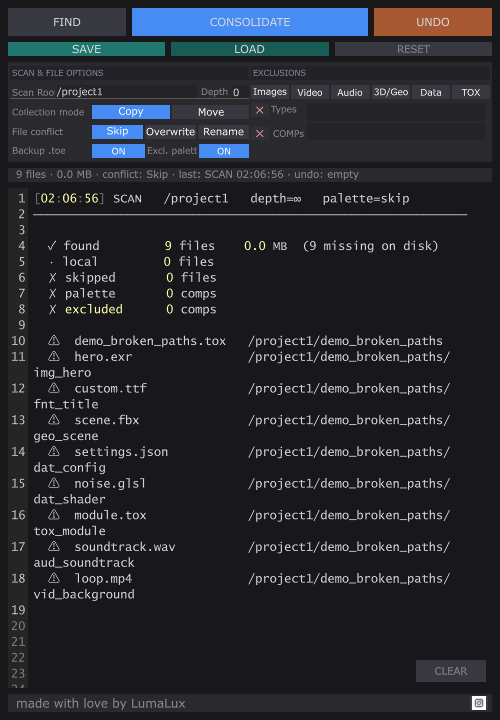
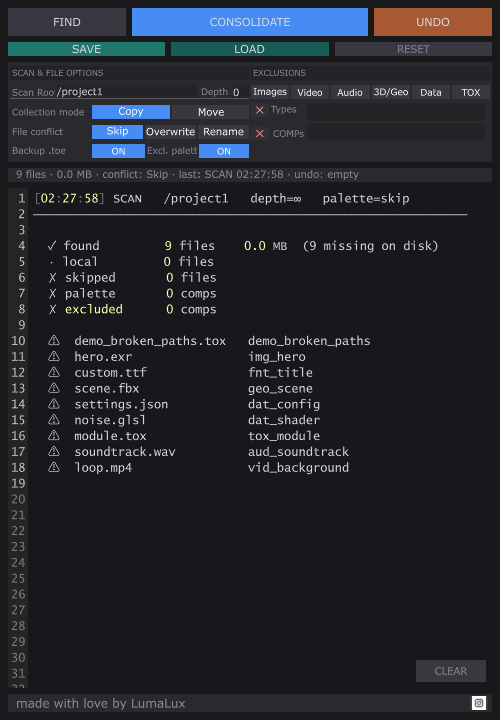
v0.3.0: log format fix, feature highlights, TD 2025+ req
- Fix scan log: show OP short name instead of full path, eliminating
  line-wrap artifacts in the log viewer
- README: rewrite features section with 7-item highlights + collapsed
  full list; replace verbose prose with scannable emoji bullets
- Version bump 1.3.0 -> 0.3.0 (semver pre-1.0 for beta)
- TD version requirement relaxed to 2025 (any build)
- Update panel screenshot with clean single-line log output

diff --git a/README.md b/README.md
@@ -1,8 +1,8 @@
 # CollectTDProject
 
-![Version](https://img.shields.io/badge/version-1.3.0-blue) ![Status](https://img.shields.io/badge/status-beta-yellow) ![TouchDesigner](https://img.shields.io/badge/TouchDesigner-2025.32460+-orange) ![License](https://img.shields.io/badge/license-GPL--3.0-green)
+![Version](https://img.shields.io/badge/version-0.3.0-blue) ![Status](https://img.shields.io/badge/status-beta-yellow) ![TouchDesigner](https://img.shields.io/badge/TouchDesigner-2025+-orange) ![License](https://img.shields.io/badge/license-GPL--3.0-green)
 
-> Last updated: 2026-05-05 · Released: v1.3.0 (broken-path detection, replayable relocation log, preset auto-increment + smart defaults, redesigned panel UI)
+> Last updated: 2026-05-07 · v0.3.0 (beta) — broken-path detection, replayable relocation log, preset save/load with auto-increment, redesigned panel UI
 
 A TouchDesigner utility component that scans your project for external file dependencies, copies or moves them into a local folder structure, and rewrites operator parameters to relative paths — making your project fully portable.
 
@@ -24,36 +24,37 @@ CollectTDProject automates the whole process.
 
 ## Features
 
-- Recursive scan of the entire project network, or a defined subtree
+- ⚠️ **Broken-path detection** — missing files flagged in the log, never silently dropped
+- 📦 **Copy or Move** with three conflict strategies: Skip, Overwrite, Auto-rename
+- ✏️ **Rewrites OP parameters** to relative paths after transfer
+- ↩️ **Undo + replayable relocation log** — reverse in-panel, or run the generated `.py` from any terminal to roll back after TD is closed
+- 🎛️ **Preset save/load** — per-project smart defaults, auto-increments on filename collision
+- 🛡️ **Safety .toe backup** — saves `<project>.original.toe` once before any change
+- 🧹 **Exclusion presets** — one-click toggles for Images, Video, Audio, 3D/Geo, Data, TOX
+
+<details>
+<summary>Full feature list</summary>
+
+- Recursive scan of the entire project network or a defined subtree
 - Detects file references across all operator types by evaluating string parameters
-- **Broken-path detection** — references that point to missing or unreachable files are reported (with a ⚠ marker) instead of silently dropped, so nothing slips through
-- Smart skip rule — already-local references (relative path resolving inside `project.folder` and the file actually exists) are filtered out automatically; everything else (absolute, external, broken) is recorded
+- Smart skip rule — already-local relative references that resolve inside `project.folder` are filtered out automatically; everything else (absolute, external, broken) is recorded
 - Organizes collected files into standard subfolders: `Image/`, `Movie/`, `Audio/`, `Geo/`, `Data/`, `Font/`, `Component/`
-- **Copy or Move** — non-destructive copy mode by default
-- **Conflict resolution** — Skip, Overwrite, or Auto-rename when a file already exists at the destination
-- **Rewrites OP parameters** to relative paths after transfer (optional, on by default)
-- **File size calculator** — shows total dependency size before you commit to anything
-- **Undo** — reverses the last consolidation, restoring original parameter values (and returning moved files in Move mode)
-- **Replayable relocation log** — every CONSOLIDATE writes a self-contained `<project>.relocation_<YYYYMMDD_HHMMSS>.py` next to the `.toe`. Run it with `python <file>.py` from anywhere to roll back the transfer (Move entries moved back, Copy/Rename entries deleted, Overwrite entries flagged unrecoverable). Survives TD restarts and works even if the project is deleted — useful when other projects or apps reference the same source files
-- **Exclusion presets** — one-click toggles for Images, Video, Audio, 3D/Geo, Data, and TOX file groups
-- **Palette/system exclusion** — skips components sourced from the TD palette and internal system paths
-- Custom **scan scope**: set a root COMP and max recursion depth
-- **Exclusion lists**: skip specific COMPs or file extensions
-- Live **status bar** showing current conflict mode, file count, and last action
-- **Hover tooltips** on every UI control — descriptions appear in the status bar when you hover over any button, toggle, segmented control, preset, or section header
-- **Reset buttons** — global `RESET` reverts all settings to defaults; per-field `×` icons next to *Types* and *COMPs* reset just that field
-- **Preset Save / Load** — write current settings to a JSON file, reload them on demand
-  - **Smart defaults** — when `Presetpath` is blank, falls back to `~/Documents/Derivative/CollectTDProject` (auto-created); when `Presetname` is blank, falls back to `preset_<project_stem>` so each project keeps its own preset by default
-  - **Auto-increment** — saving over an existing preset writes `preset_name_1.json`, `_2`, etc. so previous presets are never overwritten
-- **Safety .toe backup** — optional toggle: when ON, CONSOLIDATE first saves a one-time `<project>.original.toe` next to the running `.toe`, preserving the truly original state across multiple consolidations
-- Scrollable real-time **log viewer** with ample space for long path lists
+- File size calculator — shows total dependency size before you commit
+- Custom scan scope: root COMP and max recursion depth (0 = unlimited)
+- Exclusion lists: skip specific COMPs or file extensions by name
+- Palette/system exclusion — skips components from the TD palette and internal system paths
+- Per-field reset buttons (`×`) next to Types and COMPs; global `RESET` for all settings
+- Hover tooltips on every control — descriptions appear in the status bar
+- Live status bar: conflict mode, file count, last action timestamp
 - Self-contained: single `.tox`, no external Python packages or dependencies
+
+</details>
 
 ---
 
 ## Requirements
 
-- TouchDesigner 2025.32460 or later
+- TouchDesigner 2025 (any build)
 - Python 3.11+ (bundled with TD 2025)
 - Windows or macOS
 